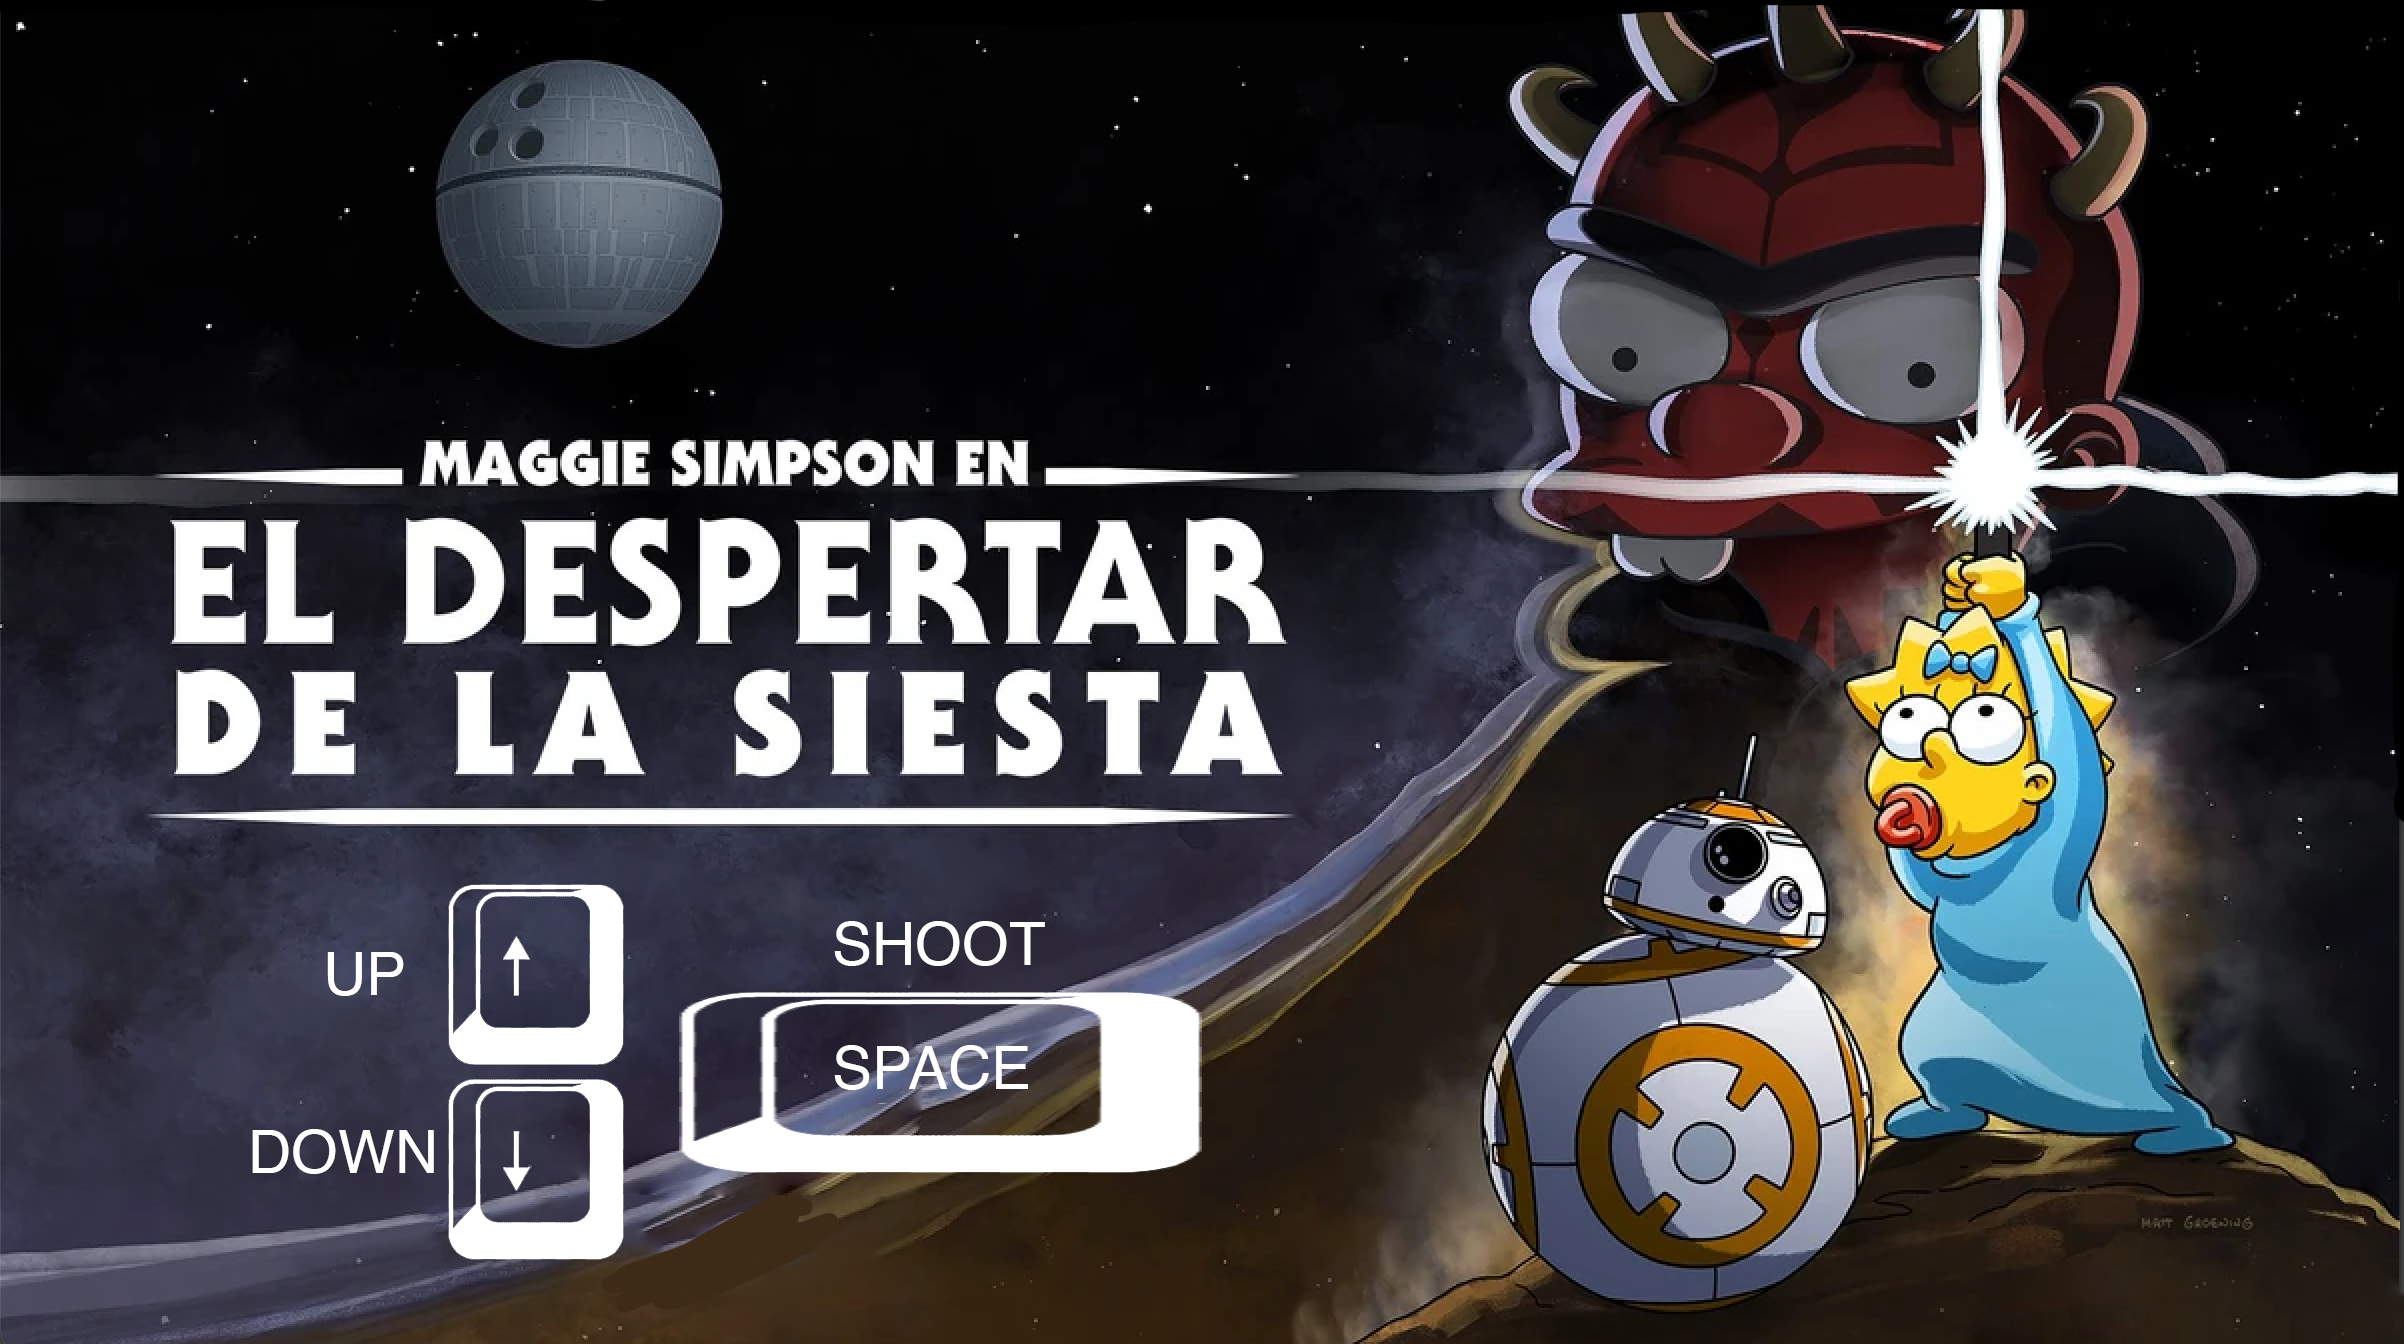
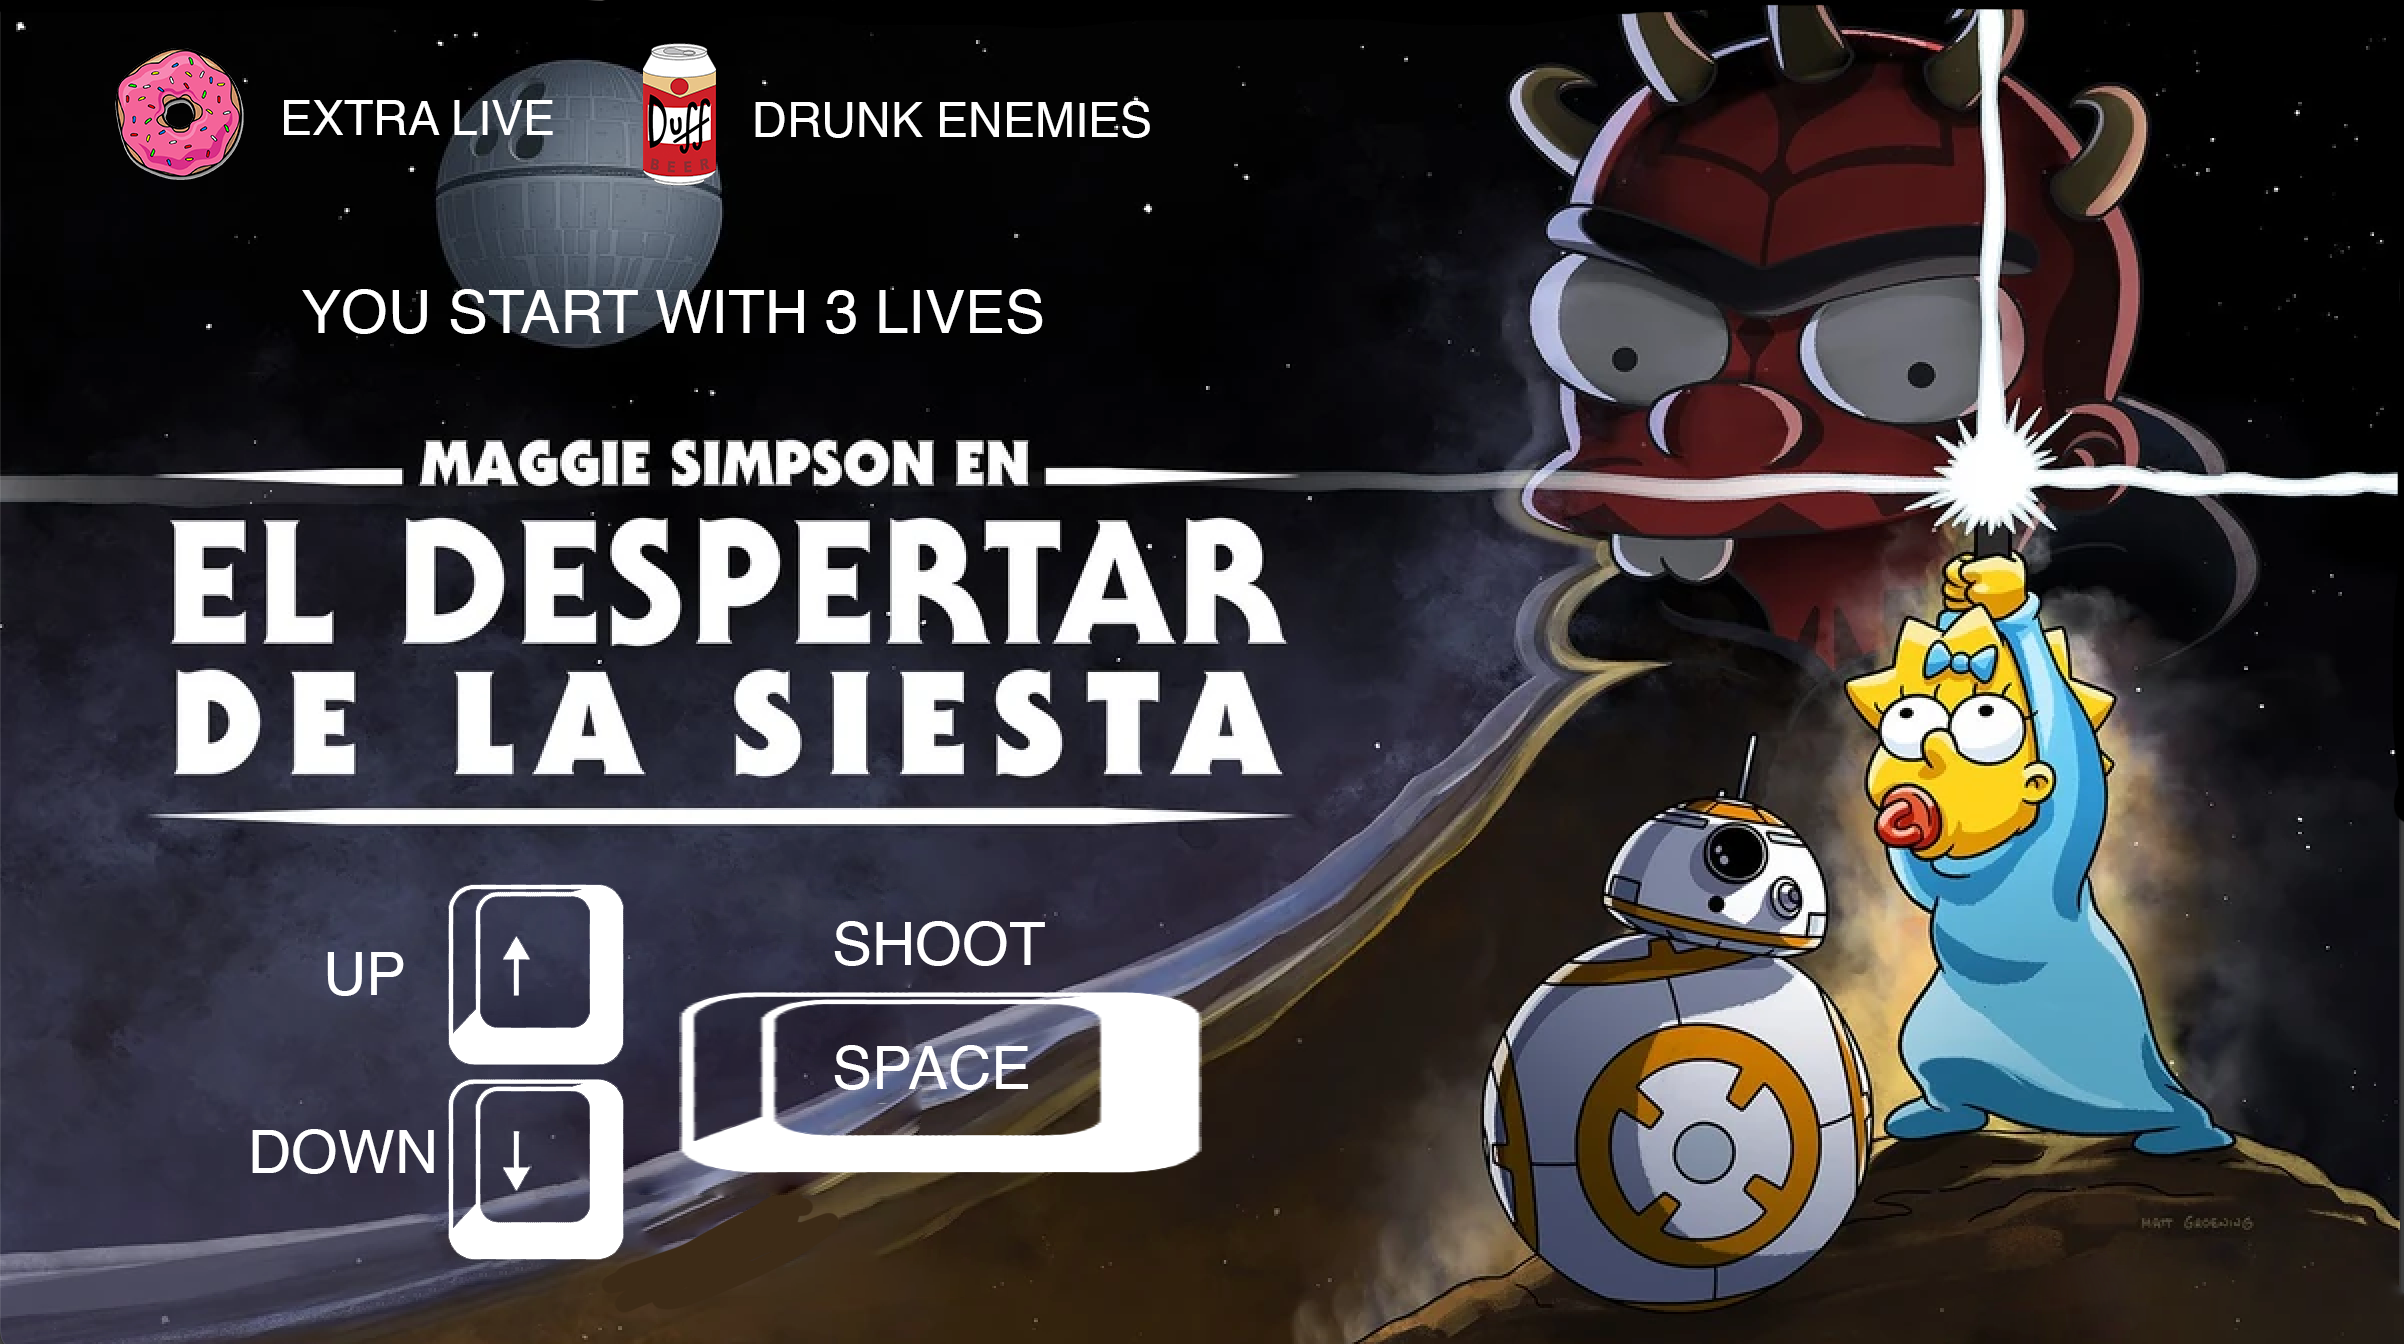
finalisisimo

Changed region(s): [[0.2496, 0.0312, 0.468, 0.1562], [0.0312, 0.0312, 0.2184, 0.1562], [0.1248, 0.2188, 0.4368, 0.25]]

diff --git a/js/game.js b/js/game.js
@@ -160,6 +160,12 @@ const Game = {
         }
 
 
+        if (this.nave.liveNave === 0) {
+            this.gameOver()
+        }
+
+
+
 
 
 
@@ -192,6 +198,11 @@ const Game = {
             this.isCollisionBulletsJackie()
             this.isCollisionBulletsNaveJackie()
             this.isCollisionDoubleBulletJackie()
+            if (this.jackie.liveJackie === 0) {
+                this.youWin()
+            }
+
+
 
         }
 
@@ -673,8 +684,33 @@ const Game = {
 
 
     gameOver() {
+        this.fondo1 = document.createElement('img')
 
-        console.log('finish')
+        this.fondo1.src = "./img/final.png"
+
+        this.fondo1.style.position = 'absolute'
+
+        this.fondo1.style.width = `${this.gameSize.w}px`
+        this.fondo1.style.height = `${this.gameSize.h}px`
+        this.fondo1.style.left = `0px`
+        this.fondo1.style.top = `0px`
+        this.gameScreen.appendChild(this.fondo1)
+
+    },
+    youWin() {
+
+        this.fondo2 = document.createElement('img')
+
+        this.fondo2.src = "./img/win.png"
+
+        this.fondo2.style.position = 'absolute'
+
+        this.fondo2.style.width = `${this.gameSize.w}px`
+        this.fondo2.style.height = `${this.gameSize.h}px`
+        this.fondo2.style.left = `0px`
+        this.fondo2.style.top = `0px`
+        this.gameScreen.appendChild(this.fondo2)
+
 
     },
 

diff --git a/js/jackie.js b/js/jackie.js
@@ -39,7 +39,7 @@ class Jackie {
         }
 
         this.init()
-        this.liveJackie = 5
+        this.liveJackie = 10
 
 
     }
